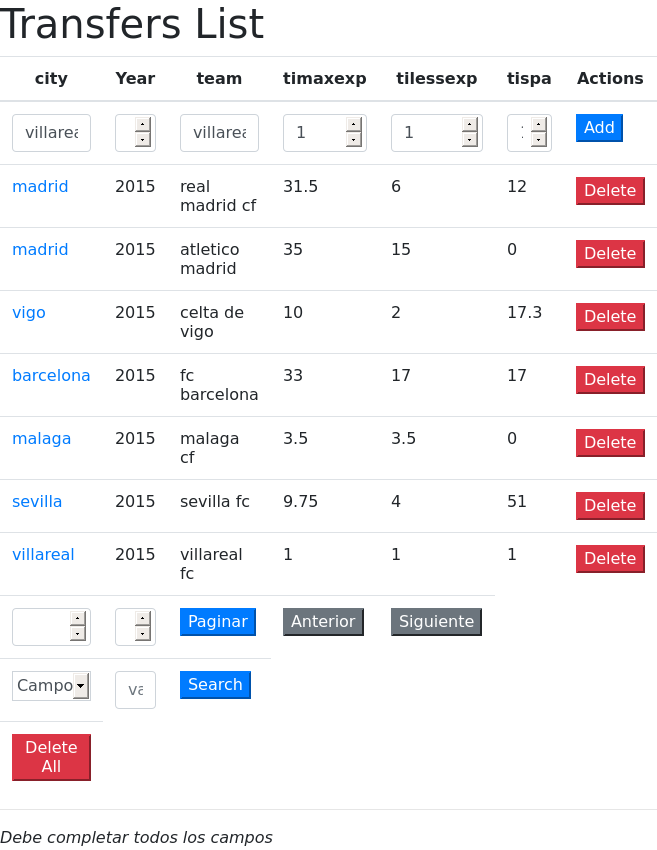
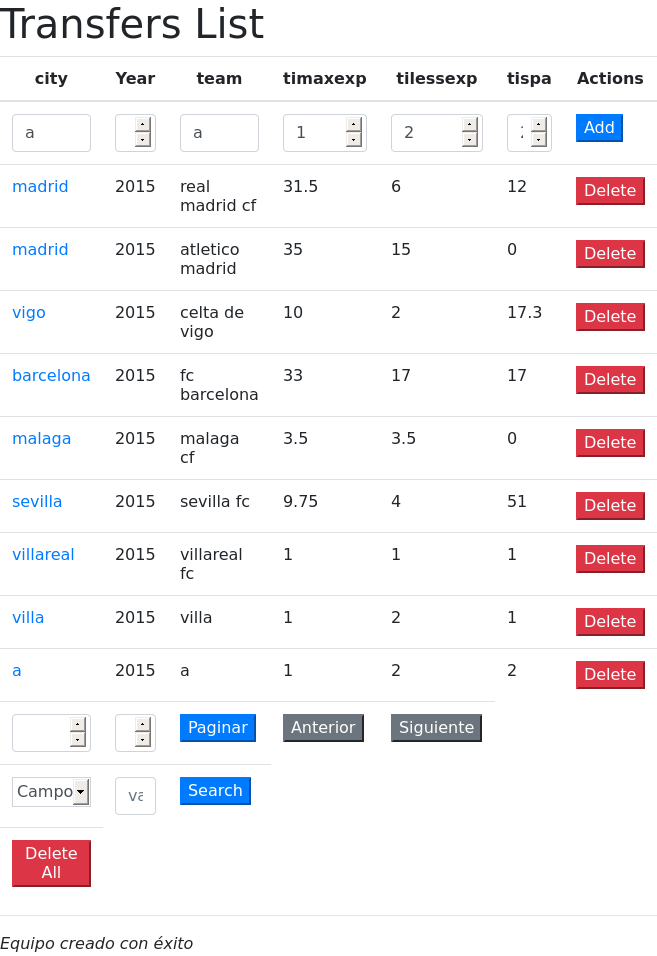
cors

diff --git a/public/testTransfers/t02-addTeamTransfers.js b/public/testTransfers/t02-addTeamTransfers.js
@@ -10,12 +10,12 @@ describe('Add team', function(){
             .then(function(myteams){
                 browser.driver.sleep(2000);
                 
-                element(by.model('newteam.city')).sendKeys('villareal');
+                element(by.model('newteam.city')).sendKeys('a');
                 element(by.model('newteam.year')).sendKeys('2015');
-                element(by.model('newteam.team')).sendKeys('villareal fc');
+                element(by.model('newteam.team')).sendKeys('a');
                 element(by.model('newteam.timaxexp')).sendKeys('1');
-                element(by.model('newteam.tilessexp')).sendKeys('1');
-                element(by.model('newteam.tispa')).sendKeys('1');
+                element(by.model('newteam.tilessexp')).sendKeys('2');
+                element(by.model('newteam.tispa')).sendKeys('2');
                 
                 element(by.buttonText('Add')).click().then(function(){
                     element.all(by.repeater('team in teams')).then(function (teams){

diff --git a/public/index.html b/public/index.html
@@ -1,10 +1,11 @@
 <html>
-
-<head>
-    <title>SOS1718-01</title>
-
+    <head>
+        <title>
+            SOS1718-01
+        </title>
+    </head>
     <body>
-        <div>Service Oriented Systems (Sistemas Orientados a Servicios) 2017/2018 at [University of Sevilla](http://www.us.es)</div>
+        <h1>Service Oriented Systems 2017/2018 <p><a href="http://www.us.es">University of Sevilla</a></p></h1>
         <div>
             ## SOS1718-01
         </div>

diff --git a/public/sharedApisTransfers.html b/public/sharedApisTransfers.html
@@ -1,0 +1,3 @@
+<h1>Shared Stadistics Graphs</h1>
+<div id = "sharedStadistics1"></div>
+<div id = "sharedStadistics2S"></div>

diff --git a/public/transfersList.html b/public/transfersList.html
@@ -62,5 +62,6 @@
     </tbody>
     
 </table>
+
 <hr/>
 <h8><i>{{status}}</i></h8>
